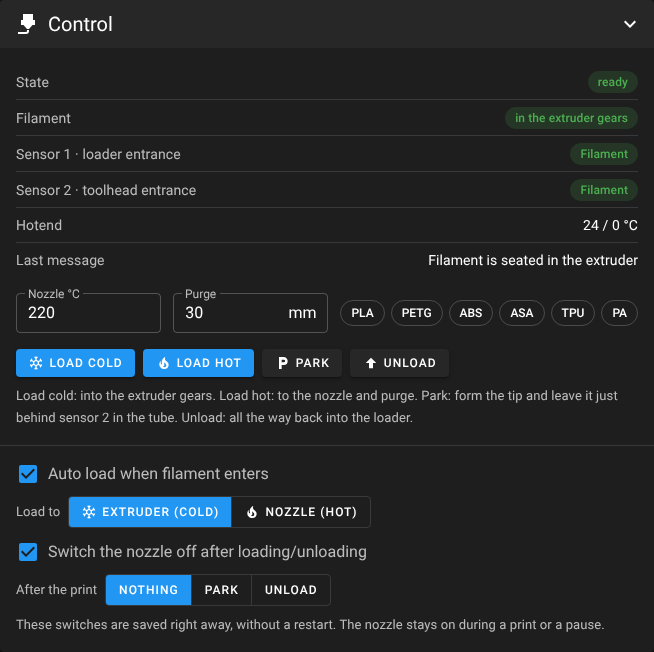
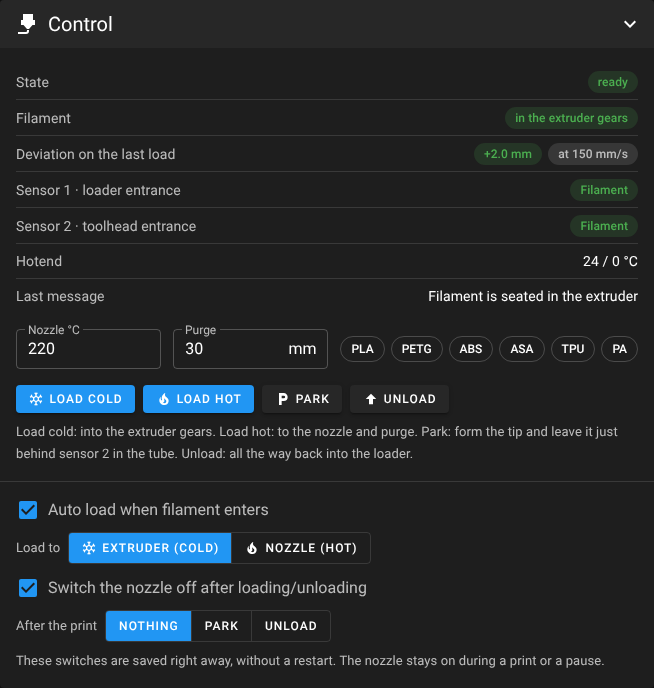
Full spools: gentler acceleration and slip check on every load
- Every load with a known start position compares where sensor 2 triggers
  with tube_len; the deviation is shown on the page, in the history and in
  LOADER_STATUS, with a warning above slip_warn (default 10 mm)
- Default accel 500 mm/s² (was 1500); presets 300 / 500 / 1000
- Settings editor warns about accel above 1000 with a full spool
- Settings schema 6: slip_warn is added by ./install.sh or by saving once

Claude-Session: https://claude.ai/code/session_01VDtPnBwXqHuwKHs624Dn1u

diff --git a/web/index.html b/web/index.html
@@ -239,6 +239,7 @@ body.no-mainsail .v-btn { background: #333; color: #fff; border: 0; border-radiu
                 <table class="kv">
                   <tr><td>Zustand</td><td id="s-state">–</td></tr>
                   <tr><td>Filament</td><td id="s-pos">–</td></tr>
+                  <tr><td>Abweichung beim letzten Laden</td><td id="s-slip">–</td></tr>
                   <tr><td>Sensor 1 · Loader-Eingang</td><td id="s-in">–</td></tr>
                   <tr><td>Sensor 2 · Toolhead-Eingang</td><td id="s-tool">–</td></tr>
                   <tr><td>Hotend</td><td id="s-temp">–</td></tr>
@@ -465,7 +466,7 @@ const OFF = "#off# ";                            // prefix of deactivated config
 const TOOL = "filament_switch_sensor toolhead_in";
 const BASE = location.pathname.replace(/[^/]*$/, "") || "/autoloader/";   // /autoloader/ or /server/autoloader/
 const SELF_RE = /^\/(autoloader|server\/autoloader)\/?$/;
-const SCHEMA = 2;                                // version of the settings file format
+const SCHEMA = 6;                                // version of the settings file format
 const $ = (id) => document.getElementById(id);
 const esc = (s) => String(s).replace(/[&<>"']/g, (c) => ({ "&": "&amp;", "<": "&lt;", ">": "&gt;", '"': "&quot;", "'": "&#39;" }[c]));
 const store = {
@@ -696,6 +697,12 @@ const T_EN = {
   "Filament im Schlauch geparkt": "Filament parked in the tube", "Filament im Loader": "Filament in the loader", "(Stelle im Schlauch unbekannt)": "(position in the tube unknown)",
   "Wird in den Schlauch zurückgezogen …": "Pulling back into the tube …", "Längen messen": "Measure lengths",
   "muss kleiner als „Sensorsuche ab“ + Reserve − 5 mm sein": "must be smaller than “Search starts” + reserve − 5 mm",
+  // Slip
+  "Abweichung beim letzten Laden": "Deviation on the last load", "Abweichung": "deviation", "bei {n} mm/s": "at {n} mm/s",
+  "Abweichung {d} an Sensor 2: plus = später als erwartet (Schlupf oder Schrittverlust), minus = früher (tube_len zu groß).":
+    "Deviation {d} at sensor 2: plus = later than expected (slip or lost steps), minus = earlier (tube_len too large).",
+  "Beschleunigung über 1000 mm/s²: Mit voller 1-kg-Rolle muss die Rolle mitbeschleunigt werden und läuft beim Bremsen nach – 500 ist schonender und kostet nur Bruchteile einer Sekunde.":
+    "Acceleration above 1000 mm/s²: with a full 1 kg spool the spool has to be accelerated too and keeps turning when the loader stops – 500 is gentler and costs only a fraction of a second.",
   // Console
   "G-Code": "G-Code", "z. B. LOADER_STATUS": "e.g. LOADER_STATUS",
 };
@@ -1112,7 +1119,9 @@ function merge(o) {
       if (EV.last === null || st.event < EV.last) EV.last = st.event;
       else if (st.event > EV.last) {
         EV.last = st.event;
-        histAdd({ t: Date.now() / 1000, op: st.op || "", r: st.result || "", m: st.msg || "", d: EV.t0 ? Math.round((Date.now() - EV.t0) / 100) / 10 : null });
+        const it = { t: Date.now() / 1000, op: st.op || "", r: st.result || "", m: st.msg || "", d: EV.t0 ? Math.round((Date.now() - EV.t0) / 100) / 10 : null };
+        if (["load", "load_cold"].includes(st.op) && Number(st.slip) > -900) { it.sl = Number(st.slip); it.sp = Math.round(Number(st.slip_speed) || 0); }
+        histAdd(it);
         EV.t0 = 0;
       }
     }
@@ -1186,6 +1195,16 @@ function posHTML() {
   if (["loader", "tube"].includes(p) && st.tip != null) h += chip(t("{n} mm ab Loader", { n: Math.round(Number(st.tip)) }) + (+st.tip_known ? "" : " · " + t("ungenau")), +st.tip_known ? "muted" : "warning--text");
   return h;
 }
+/* deviation at sensor 2 on the last load: + = later than expected (slip / lost steps), - = earlier (tube_len too large) */
+const slipTxt = (d) => `${d > 0 ? "+" : ""}${dec(Number(d).toFixed(1))} mm`;
+function slipHTML(st, v) {
+  const d = Number(st.slip);
+  if (st.slip === undefined || !isFinite(d) || d <= -900) return "–";
+  const warn = Number(v.slip_warn ?? 10);
+  const tip = t("Abweichung {d} an Sensor 2: plus = später als erwartet (Schlupf oder Schrittverlust), minus = früher (tube_len zu groß).", { d: slipTxt(d) });
+  return `<span title="${esc(tip)}">` + chip(slipTxt(d), Math.abs(d) > warn ? "warning--text" : "success--text") +
+    (Number(st.slip_speed) > 0 ? chip(t("bei {n} mm/s", { n: Math.round(Number(st.slip_speed)) }), "muted") : "") + `</span>`;
+}
 /* position saved by Klipper vs. what the sensors say right now (filament moved by hand) */
 const SYNC = { since: 0, last: 0 };
 function posMismatch() {
@@ -1250,6 +1269,7 @@ function draw() {
   $("s-in").innerHTML = S["filament_switch_sensor loader_in"] ? sensorHTML("loader_in") : "–";
   $("s-tool").innerHTML = ready ? sensorHTML("toolhead_in") : "–";
   $("s-pos").innerHTML = st.pos === undefined ? "–" : posHTML();
+  $("s-slip").innerHTML = slipHTML(st, v);
   const psel = $("pos-sel");
   if (psel && psel.dataset.touched !== "1" && psel.value !== st.pos && [...psel.options].some((o) => o.value === st.pos)) psel.value = st.pos;
   $("s-persist").innerHTML = hasSV ? chip(t("aktiv – überlebt Neustart und Ausschalten"), "success--text") : chip(t("fehlt – ./install.sh ergänzt [save_variables]"), "warning--text");
@@ -1428,7 +1448,7 @@ function drawHistory() {
     `<div class="v-data-table v-data-table--dense theme--${TH} hlist"><div class="v-data-table__wrapper"><table><tbody>` +
     shown.map((e) => `<tr><td>${esc(dMid(e.t))}</td><td>${esc(t(OPS[e.op] || e.op || "–"))}</td>` +
       `<td>${e.r === "ok" ? chip(t("ok"), "success--text") : chip(t("Fehler"), "error--text")}</td>` +
-      `<td class="small muted">${esc(e.m || "")}${e.d != null ? ` · ${esc(dec(e.d))} s` : ""}</td></tr>`).join("") +
+      `<td class="small muted">${esc(e.m || "")}${e.d != null ? ` · ${esc(dec(e.d))} s` : ""}${e.sl != null ? ` · ${esc(t("Abweichung"))} ${esc(slipTxt(e.sl))}${e.sp ? ` @ ${esc(e.sp)} mm/s` : ""}` : ""}</td></tr>`).join("") +
     `</tbody></table></div></div>` +
     (items.length > 10 ? `<div class="mt-2"><button type="button" class="v-btn v-btn--text theme--${TH} v-size--small primary--text" id="hist-more"><span class="v-btn__content">${esc(HIST.all ? t("Weniger anzeigen") : t("Alle anzeigen ({n})", { n: items.length }))}</span></button></div>` : "");
   const more = $("hist-more");
@@ -1436,8 +1456,8 @@ function drawHistory() {
 }
 
 function histCsv() {
-  const rows = [["time", "operation", "result", "message", "duration_s"]].concat(
-    HIST.items.slice().sort((a, b) => a.t - b.t).map((e) => [new Date(e.t * 1000).toISOString(), e.op, e.r, e.m || "", e.d ?? ""]));
+  const rows = [["time", "operation", "result", "message", "duration_s", "deviation_mm", "speed_mm_s"]].concat(
+    HIST.items.slice().sort((a, b) => a.t - b.t).map((e) => [new Date(e.t * 1000).toISOString(), e.op, e.r, e.m || "", e.d ?? "", e.sl ?? "", e.sp ?? ""]));
   const csv = rows.map((r) => r.map((c) => `"${String(c).replace(/"/g, '""')}"`).join(",")).join("\n");
   const a = document.createElement("a");
   a.href = URL.createObjectURL(new Blob([csv], { type: "text/csv" }));
@@ -1646,7 +1666,7 @@ const FIELDS = [
     "gear_offset", "gear_push", "ext_to_nozzle", "ext_speed", "purge_len", "purge_speed", "default_temp", "unload_ext_len",
     "unload_hold", "auto_delay", "bench_dist", "tip_ram_len", "tip_temp", "tip_speed_start", "tip_speed", "tip_cool_pos",
     "tip_cool_len", "tip_cool_moves", "tip_cool_start", "tip_cool_end", "tip_eject_speed", "print_start_mode",
-    "print_end_action", "park_dist"].map((k) => [k, VARS, "variable_" + k, "n"]),
+    "print_end_action", "park_dist", "slip_warn"].map((k) => [k, VARS, "variable_" + k, "n"]),
   ["servo_off_released", VARS, "variable_servo_off_released", "b"], ["bench_mode", VARS, "variable_bench_mode", "b"],
   ["tip_enable", VARS, "variable_tip_enable", "b"],
   ["auto_enable", VARS, "variable_auto_enable", "b"], ["heater_off", VARS, "variable_heater_off", "b"],
@@ -1655,7 +1675,7 @@ const FIELDS = [
 const TYPES = Object.fromEntries(FIELDS.map((f) => [f[0], f[3]]).concat([["tool", "b"]]));
 /* defaults – same as scripts/installer.py DEFAULTS */
 const DEF = {
-  step_pin: "gpio14", dir_pin: "!gpio13", enable_pin: "!gpio15", microsteps: 16, rotation_distance: 22.6789511, velocity: 150, accel: 1500,
+  step_pin: "gpio14", dir_pin: "!gpio13", enable_pin: "!gpio15", microsteps: 16, rotation_distance: 22.99646, velocity: 150, accel: 500,
   uart_pin: "gpio9", tx_pin: "gpio8", uart_address: 3, run_current: 0.6, stealth_speed: 60, servo_pin: "gpio29",
   loader_in_pin: "^gpio16", toolhead_in_pin: "^nhk:gpio12", tool: 0, lang: "de",
   servo_clamp: 45, servo_release: 170, servo_settle: 0.5, servo_off_released: 1, speed: 150, slow_speed: 30, step_mm: 2,
@@ -1663,11 +1683,11 @@ const DEF = {
   purge_speed: 3, default_temp: 220, unload_ext_len: 65, unload_hold: 15, auto_delay: 2, bench_mode: 1, bench_dist: 50,
   tip_enable: 1, tip_ram_len: 0, tip_temp: 0, tip_speed_start: 80, tip_speed: 18, tip_cool_pos: 35, tip_cool_len: 10,
   tip_cool_moves: 4, tip_cool_start: 10, tip_cool_end: 50, tip_eject_speed: 25, print_start_mode: 2, print_end_action: 0, park_dist: 20,
-  auto_enable: 1, auto_target: "cold", heater_off: 1,
+  auto_enable: 1, auto_target: "cold", heater_off: 1, slip_warn: 10,
 };
 /* variables of newer versions – defaults when the settings file does not have them yet */
 const NEW_KEYS = ["auto_enable", "auto_target", "heater_off", "approach", "stealth_speed", "tip_enable", "tip_ram_len", "tip_temp", "tip_speed_start", "tip_speed", "tip_cool_pos",
-  "tip_cool_len", "tip_cool_moves", "tip_cool_start", "tip_cool_end", "tip_eject_speed", "print_start_mode", "print_end_action", "park_dist"];
+  "tip_cool_len", "tip_cool_moves", "tip_cool_start", "tip_cool_end", "tip_eject_speed", "print_start_mode", "print_end_action", "park_dist", "slip_warn"];
 const NEW_DEFAULTS = Object.fromEntries(NEW_KEYS.map((k) => [k, DEF[k]]));
 
 const L2 = (x) => Array.isArray(x) ? x[LANG === "en" ? 1 : 0] : x;
@@ -1692,11 +1712,12 @@ const GROUPS = [
   { id: "speed", t: ["Tempo", "Speed"], presets: true, f: [
     F("speed", ["Fördern", "Feed"], "mm/s", ["Volle Fahrt durch den PTFE-Schlauch", "Full speed through the PTFE tube"], { min: 10, max: 400, st: 10 }),
     F("slow_speed", ["Sensorsuche", "Sensor search"], "mm/s", ["Letztes Stück vor Sensor 2 und Übergabe an den Extruder", "Last part before sensor 2 and hand-over to the extruder"], { min: 5, max: 100, st: 5 }),
-    F("accel", ["Beschleunigung", "Acceleration"], "mm/s²", ["Höher = schneller auf Tempo, braucht mehr Kraft", "Higher = reaches speed sooner, needs more torque"], { min: 100, max: 10000, st: 100 }),
+    F("accel", ["Beschleunigung", "Acceleration"], "mm/s²", ["Anfahren und Bremsen. Mit voller 1-kg-Rolle 500 oder weniger – die Rolle muss mitbeschleunigt werden und läuft beim Bremsen nach", "Start and stop. With a full 1 kg spool 500 or less – the spool has to be accelerated too and keeps turning when the loader stops"], { min: 100, max: 10000, st: 100 }),
     F("run_current", ["Motorstrom", "Motor current"], "A", ["Mehr Strom = mehr Kraft bei hohem Tempo, wärmerer Motor", "More current = more torque at high speed, warmer motor"], { min: 0.2, max: 1.5, st: 0.05 }),
     F("ext_speed", ["Extruder beim Laden", "Extruder while loading"], "mm/s", ["Extruder schiebt bis zur Düse", "Extruder pushes to the nozzle"], { min: 0.5, max: 30, st: 0.5 }),
     F("stealth_speed", ["Leise bis", "Quiet up to"], "mm/s", ["Darunter leise (StealthChop), darüber kräftig (SpreadCycle). 0 = immer kräftig", "Below: quiet (StealthChop), above: strong (SpreadCycle). 0 = always strong"], { min: 0, max: 999999, st: 10, adv: true }),
     F("purge_speed", ["Ausspül-Tempo", "Purge speed"], "mm/s", ["Tempo beim Ausspülen nach dem Laden", "Speed of the purge after loading"], { min: 0.5, max: 20, st: 0.5, adv: true }),
+    F("slip_warn", ["Schlupf-Warnung ab", "Slip warning from"], "mm", ["Warnung, wenn Sensor 2 beim Laden so viel später kommt als erwartet (Schlupf oder Schrittverlust)", "Warning when sensor 2 comes this much later than expected while loading (slip or lost steps)"], { min: 2, max: 200, st: 1, adv: true }),
     F("step_mm", ["Suchschritt", "Search step"], "mm", ["Genauigkeit der Sensorsuche – kleiner = genauer, aber langsamer", "Resolution of the sensor search – smaller = more precise but slower"], { min: 0.5, max: 10, st: 0.5, adv: true }),
   ] },
   { id: "len", t: ["Längen", "Lengths"], diagram: true, f: [
@@ -1750,9 +1771,9 @@ const GROUPS = [
 const FDEF = Object.fromEntries(GROUPS.flatMap((g) => g.f.map((f) => [f.k, f])));
 const LABELS = Object.fromEntries(Object.values(FDEF).map((f) => [f.k, f.l]));
 const PRESETS = [
-  { id: "quiet", t: ["Leise", "Quiet"], v: { speed: 60, slow_speed: 15, accel: 600, stealth_speed: 200 } },
-  { id: "normal", t: ["Normal", "Normal"], v: { speed: 150, slow_speed: 30, accel: 1500, stealth_speed: 60 } },
-  { id: "fast", t: ["Schnell", "Fast"], v: { speed: 250, slow_speed: 40, accel: 3000, stealth_speed: 0 } },
+  { id: "quiet", t: ["Leise", "Quiet"], v: { speed: 60, slow_speed: 15, accel: 300, stealth_speed: 200 } },
+  { id: "normal", t: ["Normal", "Normal"], v: { speed: 150, slow_speed: 30, accel: 500, stealth_speed: 60 } },
+  { id: "fast", t: ["Schnell", "Fast"], v: { speed: 250, slow_speed: 40, accel: 1000, stealth_speed: 0 } },
 ];
 let ED = null;   // { text, schema, base, model, missing }
 
@@ -1927,6 +1948,7 @@ function validate(m) {
   const depth = (n("approach") + n("overrun")) / n("step_mm");
   if (depth > 150) warn.push(t("Die Sensorsuche kann bis zu {n} Schritte brauchen – das dauert. Suchschritt vergrößern oder „Sensorsuche ab“ / Reserve verkleinern.", { n: Math.round(depth) }));
   if (n("speed") > 200 && n("run_current") < 0.7) warn.push(t("Über 200 mm/s braucht der NEMA17 meist 0,7 A oder mehr, sonst verliert er Schritte."));
+  if (n("accel") > 1000) warn.push(t("Beschleunigung über 1000 mm/s²: Mit voller 1-kg-Rolle muss die Rolle mitbeschleunigt werden und läuft beim Bremsen nach – 500 ist schonender und kostet nur Bruchteile einer Sekunde."));
   if (n("speed") > 100 && n("stealth_speed") >= n("speed")) warn.push(t("„Leise bis“ liegt über dem Fördertempo – der Treiber fährt die volle Fahrt im leisen, aber schwächeren StealthChop."));
   if (n("servo_clamp") === n("servo_release")) err.servo_release = t("gleich wie der Klemmwinkel");
   return { err, warn };

diff --git a/scripts/installer.py b/scripts/installer.py
@@ -49,7 +49,7 @@ KS_NAME = "autoloader_klipperscreen.conf"
 KS_INCLUDE = f"[include {KS_NAME}]"
 KS_CREATED = "# created by voron0-autoloader"
 
-SETTINGS_SCHEMA = 5  # matches "#@schema" in filament_loader_settings.cfg.tpl
+SETTINGS_SCHEMA = 6  # matches "#@schema" in filament_loader_settings.cfg.tpl
 TOOL_SECTION = "filament_switch_sensor toolhead_in"
 
 # icon: Material Design Icons "printer-3d-nozzle" (Pictogrammers, Apache-2.0)
@@ -85,8 +85,8 @@ FIELDS = [
     "purge_len", "purge_speed", "default_temp", "unload_ext_len", "unload_hold", "auto_delay", "bench_mode",
     "bench_dist", "tip_enable", "tip_ram_len", "tip_temp", "tip_speed_start", "tip_speed", "tip_cool_pos",
     "tip_cool_len", "tip_cool_moves", "tip_cool_start", "tip_cool_end", "tip_eject_speed", "print_start_mode",
-    "print_end_action", "park_dist", "auto_enable", "auto_target", "heater_off")]
-NEW_VARS_V2 = ["park_dist", "print_end_action", "auto_enable", "auto_target", "heater_off", "approach", "tip_enable", "tip_ram_len", "tip_temp", "tip_speed_start", "tip_speed", "tip_cool_pos", "tip_cool_len",
+    "print_end_action", "park_dist", "auto_enable", "auto_target", "heater_off", "slip_warn")]
+NEW_VARS_V2 = ["slip_warn", "park_dist", "print_end_action", "auto_enable", "auto_target", "heater_off", "approach", "tip_enable", "tip_ram_len", "tip_temp", "tip_speed_start", "tip_speed", "tip_cool_pos", "tip_cool_len",
                "tip_cool_moves", "tip_cool_start", "tip_cool_end", "tip_eject_speed", "print_start_mode"]
 
 HOOK_TAG = "# autoloader"
@@ -98,7 +98,7 @@ OFF_RE = re.compile(r"^\s*TURN_OFF_HEATERS\b", re.I)
 
 DEFAULTS = {
     "step_pin": "gpio14", "dir_pin": "!gpio13", "enable_pin": "!gpio15", "microsteps": "16",
-    "rotation_distance": "22.99646", "velocity": "150", "accel": "1500",
+    "rotation_distance": "22.99646", "velocity": "150", "accel": "500",
     "uart_pin": "gpio9", "tx_pin": "gpio8", "uart_address": "3", "run_current": "0.6", "stealth_speed": "60",
     "servo_pin": "gpio29", "loader_in_pin": "^gpio16", "toolhead_in_pin": "^nhk:gpio12",
     "lang": "de", "servo_clamp": "45", "servo_release": "170", "servo_settle": "0.5", "servo_off_released": "1",
@@ -109,7 +109,7 @@ DEFAULTS = {
     "tip_enable": "1", "tip_ram_len": "0", "tip_temp": "0", "tip_speed_start": "80", "tip_speed": "18",
     "tip_cool_pos": "35", "tip_cool_len": "10", "tip_cool_moves": "4", "tip_cool_start": "10", "tip_cool_end": "50",
     "tip_eject_speed": "25", "print_start_mode": "2", "print_end_action": "0", "park_dist": "20",
-    "auto_enable": "1", "auto_target": "cold", "heater_off": "1",
+    "auto_enable": "1", "auto_target": "cold", "heater_off": "1", "slip_warn": "10",
 }
 
 QUOTED = {"lang", "auto_target"}   # string variables, written with quotes

diff --git a/README.md b/README.md
@@ -27,6 +27,8 @@ right above the extruder gears – tell Klipper where the filament is.
 - **Unload with tip forming** – ramming, break-off and cooling moves (ERCF / Happy Hare approach).
 - **Remembers the filament position** across restarts and power-off; at start-up it is checked against the sensors.
 - **Fast** – 150 mm/s by default, only the last centimetres are searched slowly.
+- **Slip check** – every load compares where sensor 2 triggers with where it should; slip or lost steps (e.g. with a
+  heavy spool) are shown on the page and in the history.
 - **Auto load** when filament is inserted, **print hooks** for `PRINT_START` / `PRINT_END`, Mainsail and
   KlipperScreen buttons `LOAD_FILAMENT` / `UNLOAD_FILAMENT`.
 - **Mainsail page** with an *Operate* mode for daily use and a separate *Setup & calibration* mode.
@@ -109,6 +111,13 @@ park `park_dist` behind sensor 2, or unload to `unload_hold` inside the loader. 
 (`print_start_mode`). `LOADER_PRINT_END` (before `TURN_OFF_HEATERS`) does nothing, parks or unloads
 (`print_end_action` 0/1/2).
 
+**Full spools.** The loader has to accelerate the spool, and the spool keeps turning when the loader stops. A gentle
+acceleration (`accel` 500 mm/s², default) avoids both and costs only a fraction of a second. Every load reports the
+deviation at sensor 2 (*Deviation on the last load*): a few mm are normal, more than `slip_warn` triggers a warning.
+If it grows with the speed, lower `accel` or `speed`, or check the clamp angle; if it is the same at every speed,
+measure `tube_len` again. A spool holder with bearings and a light brake helps, and a straight path from the spool
+into the loader. A full unload pushes about `tube_len` of filament back towards the spool – parking avoids that.
+
 **Tip tuning.** Thin string → more cooling moves or higher `tip_cool_pos`. Blob or fat tip → lower `tip_cool_pos`
 or a lower `tip_temp`. The defaults are Happy Hare's starting values.
 
@@ -135,6 +144,7 @@ directly in `filament_loader_settings.cfg`, where every value is commented. The 
 | Variable | Default | Meaning |
 |---|---|---|
 | `speed` / `slow_speed` | 150 / 30 | mm/s fast feed / sensor search |
+| `accel` | 500 | mm/s² start and stop of the loader (gentle on full spools) |
 | `tube_len` | 300 | mm loader gears → sensor 2 (measure it) |
 | `gear_offset` / `gear_push` | 8 / 3 | mm sensor 2 → extruder gears / extra push |
 | `ext_to_nozzle` | 70 | mm extruder gears → nozzle |
@@ -142,6 +152,7 @@ directly in `filament_loader_settings.cfg`, where every value is commented. The 
 | `park_dist` / `unload_hold` | 20 / 15 | mm behind sensor 2 when parking / left in the loader |
 | `auto_enable` / `auto_target` | 1 / "cold" | auto load and its target (`cold` / `hot`) |
 | `print_start_mode` / `print_end_action` | 2 / 0 | print hooks (see above) |
+| `slip_warn` | 10 | mm deviation at sensor 2 before a warning |
 
 For high speeds the stepper needs SpreadCycle (`stealthchop_threshold` below the feed speed) and 0.6–0.8 A. If it
 skips: lower `speed` or `accel` first, then raise `run_current`.
@@ -151,6 +162,7 @@ skips: lower `speed` or `accel` first, then raise `run_current`.
 - **Sensor shows filament with nothing inserted** – wiring; with NC switches a broken wire reads as "filament".
 - **Loader runs backwards** – invert `dir_pin`.
 - **Timeout before sensor 2** – measure `tube_len`, check friction in the tube.
+- **Deviation warning** – see *Full spools* above.
 - **"Sensor 2 reached during the full-speed move"** – `tube_len` too large or wrong stored position.
 - **Position notice after power-on** – filament was moved while off; check it or correct it under *Manual & test*.
 - **Filament stuck after unloading** – tune the tip forming.
